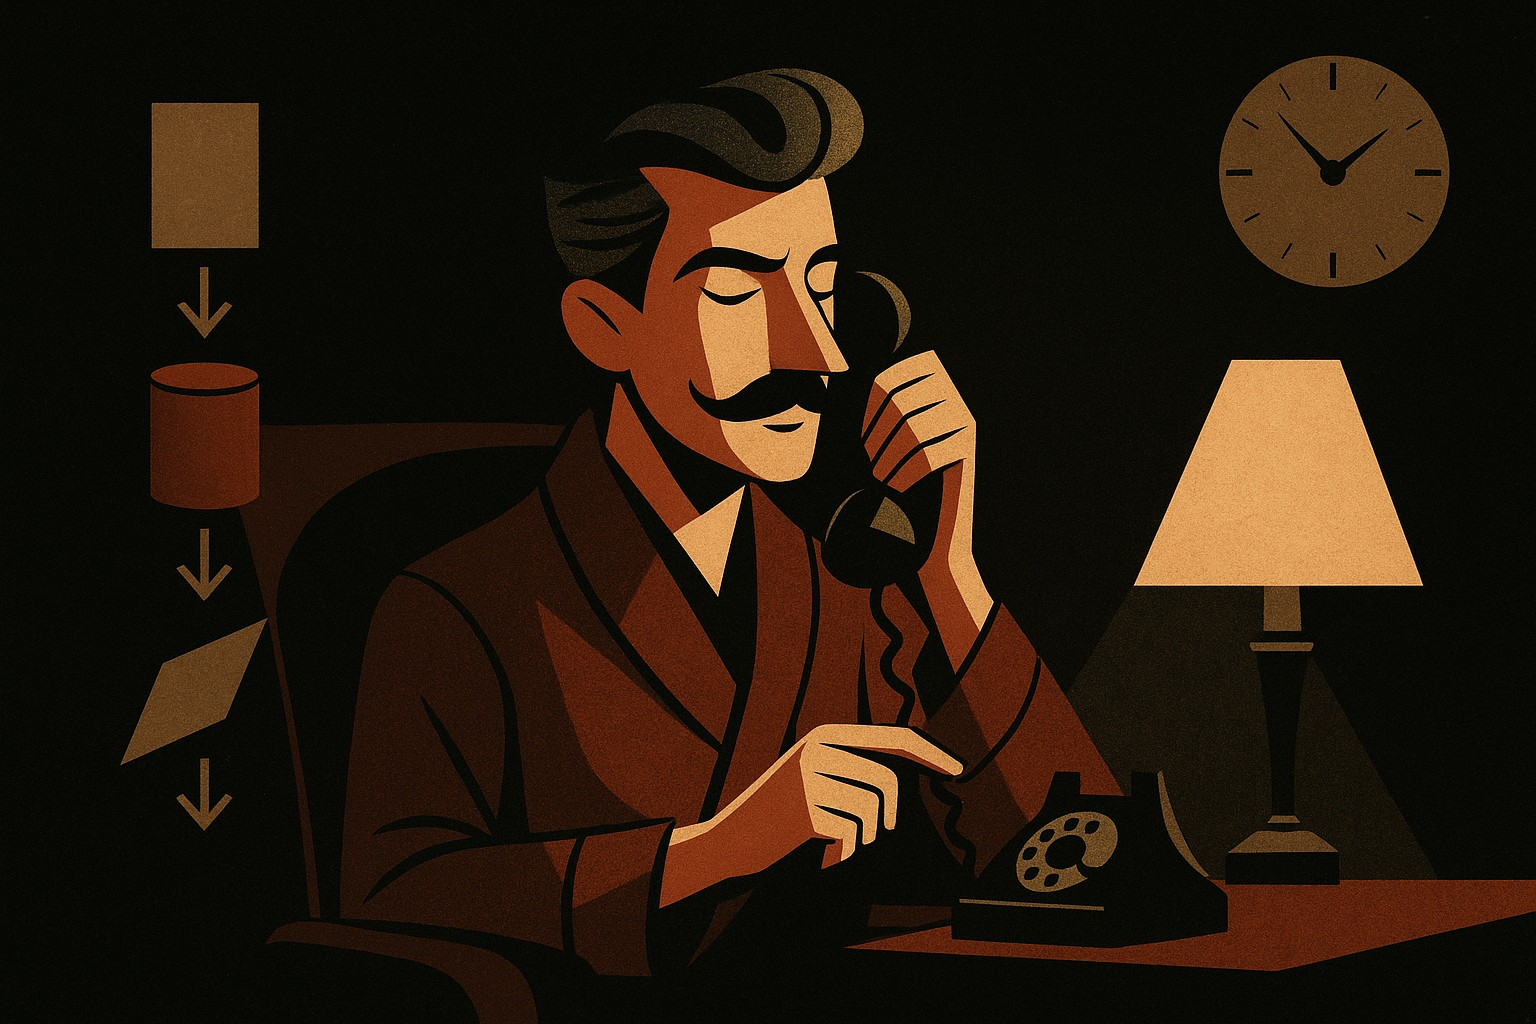
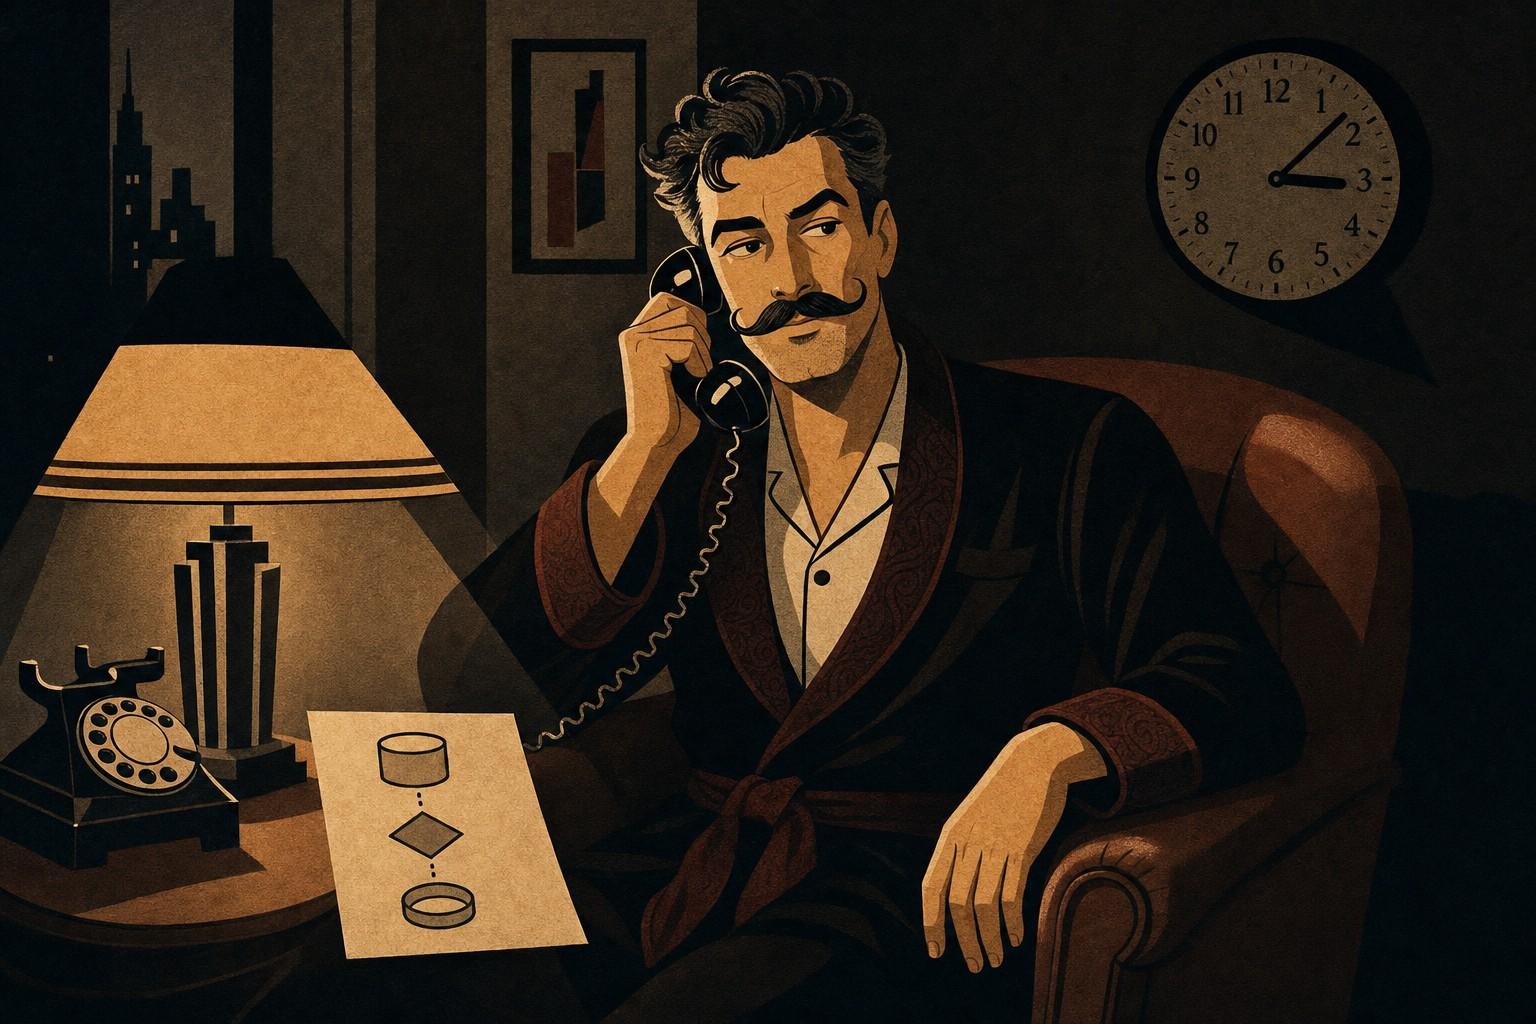
fix(cover): #40 ORA-00205 alle tre di notte: capire i file critici — rigenera cover image
Ri-pubblicazione cover-only via webo (issue #108).
Sostituisce la cover live senza toccare frontmatter/PUB_TABLE.
Slug: quali-sono-i-files-critici-di-un-db-oracle

diff --git a/docs/cover-image-prompts/quali-sono-i-files-critici-di-un-db-oracle.cover.md b/docs/cover-image-prompts/quali-sono-i-files-critici-di-un-db-oracle.cover.md
@@ -11,7 +11,9 @@ Crea un'illustrazione in formato **3:2 (1536×1024 px)**, in stile cartone retro
 
 Lo stile deve essere coerente con poster corporate americani anni '50, animazione UPA, grafica editoriale elegante e geometrica.
 
-**Resa visiva tassativa**: **illustrazione vettoriale 2D piatta**, mai 3D, mai effetto "plasticoso" o gloss/shiny, mai render fotorealistico, mai look pubblicitario contemporaneo. Texture di carta visibile per dare matericità "stampata". Ogni superficie deve apparire **piatta** e bidimensionale: niente riflessi, niente bevel, niente lucentezza moderna.
+**Resa visiva tassativa**: **illustrazione 2D disegnata a mano**, mai render 3D, mai effetto "plasticoso" o gloss/shiny, mai fotorealismo, mai look pubblicitario contemporaneo. Texture di carta visibile per dare matericità "stampata".
+
+**Profondità sì, lucido no.** Il divieto riguarda la finitura moderna (riflessi speculari, bevel, gradienti lucidi, plastica), NON il volume: l'illustrazione deve avere ombre proiettate nette e stilizzate, chiaroscuro reso a campiture o mezzitoni (screen-tone, tratteggio, grana), e una chiara distinzione tra primo piano, piano medio e sfondo. Il riferimento sono le illustrazioni editoriali stampate anni '50, che sono piatte nella *finitura* ma piene di profondità nella *composizione* — non le sagome di cartone.
 
 **Direzione artistica:**
 
@@ -21,7 +23,7 @@ Lo stile deve essere coerente con poster corporate americani anni '50, animazion
 - proporzioni dei personaggi leggermente esagerate
 - stile raffinato, intelligente, visivamente ordinato
 - atmosfera da jazz club vintage
-- illuminazione soffusa e discreta
+- illuminazione soffusa e discreta, con una direzione della luce riconoscibile e ombre proiettate coerenti
 - texture di carta ruvida ben visibile
 - mood elegante, colto, professionale
 
@@ -33,12 +35,12 @@ Lo stile deve essere coerente con poster corporate americani anni '50, animazion
 - marrone
 - bianco
 
-Usare colori piatti e uniformi, con pochissime sfumature.
+Usare campiture prevalentemente piatte, ammettendo variazioni tonali dentro la palette (toni più chiari e più scuri dello stesso colore) per dare volume e distinguere i piani. Vietati i gradienti lucidi e i colori saturi moderni, non la variazione tonale in sé.
 
-**Evitare:** effetti realistici, fotorealismo, rendering 3D, dettagli superflui, ombreggiature complesse, colori saturi moderni, look pubblicitario contemporaneo.
+**Evitare:** fotorealismo, rendering 3D, finiture lucide o plastiche, colori saturi moderni, look pubblicitario contemporaneo, affollamento disordinato della scena.
 
-La scena deve apparire grafica, essenziale, simbolica, con forte contrasto visivo tra gli elementi principali.
-Ogni oggetto deve essere semplificato in forme pulite e leggibili.
+La scena deve apparire grafica e leggibile, con forte contrasto visivo tra gli elementi principali.
+Ogni oggetto va stilizzato in forme pulite ma **deve restare riconoscibile per quello che è**: una pizza è una pizza con i suoi ingredienti, non un cerchio dentro un cerchio. Le icone puramente astratte si usano per i concetti astratti (flussi, relazioni, stati), non per gli oggetti fisici della scena.
 L'immagine deve sembrare una singola illustrazione coerente, non un collage.
 
 **Elementi grafici preferiti:**
@@ -110,16 +112,16 @@ Quando la narrativa dell'articolo coinvolge **due o più personaggi**, la scena 
 - privilegiare chiarezza grafica e composizione rispetto al dettaglio
 - evitare qualsiasi estetica moderna da stock illustration
 - evitare look realistico o digitale contemporaneo
-- evitare eccesso di oggetti, testo o micro-dettagli
-- **mai 3D, mai effetto plasticoso, mai gloss/shiny, mai lucentezza moderna**: ogni superficie deve essere piatta come una serigrafia anni '50
+- popolare l'ambiente con oggetti di contesto coerenti (arredi, strumenti, dettagli d'epoca) distribuiti sui tre piani: una scena ricca ma ordinata batte una scena spoglia
+- **mai 3D, mai effetto plasticoso, mai gloss/shiny, mai lucentezza moderna** nella *finitura* delle superfici — restano invece necessarie ombre stilizzate, mezzitoni e profondità compositiva
 
 **Testo nell'immagine:**
 
-- Limitare al minimo qualsiasi testo nell'illustrazione
+- Il testo è ammesso quando aiuta a leggere la scena (etichette, insegne, intestazioni di grafici, cartelli): non va eliminato per principio, va tenuto breve
 - **SE compare testo** (etichette, cartelli, indicazioni, copertine di libri, schermi con scritte, ecc.) deve essere **SEMPRE in inglese**
 - Il sito è multilingue (IT/EN/ES/RO) e le immagini sono condivise tra tutte le lingue: il testo in inglese le rende neutre e non richiede traduzioni
-- Preferire simboli geometrici, icone stilizzate, frecce e pittogrammi astratti al posto di parole quando possibile
+- Preferire simboli geometrici, icone stilizzate e frecce alle parole quando il concetto è astratto; gli oggetti concreti vanno però disegnati come oggetti, non sostituiti da pittogrammi
 
 **SCENA DA RAPPRESENTARE:**
 
-Stanza in penombra profonda, ore piccole della notte. Ivan — baffi a manubrio, vestaglia elegante anni '50 — è seduto in poltrona di pelle scura, cornetta di un telefono nero d'epoca stretta in mano, espressione concentrata e sveglia: sta dettando istruzioni a voce bassa con la precisione di chi ha già inquadrato il problema. Sul tavolino accanto, una lampada Art Deco è l'unica fonte di luce, con un cono luminoso stretto che taglia il buio. Sullo sfondo, silhouette stilizzata di un orologio a parete che segna le 3. A sinistra in secondo piano, tre forme geometriche verticali disposte in sequenza — un rettangolo sottile (parameter file), un cilindro compatto (control file), un parallelogramma obliquo (redo log) — collegate da frecce discendenti che evocano la catena NOMOUNT → MOUNT → OPEN. Una delle tre forme è evidenziata in rosso, le altre in beige scuro: il punto di rottura nella sequenza. Mood notturno, tensione composta, atmosfera da jazz club in chiusura.
+Telefonata notturna ricevuta: Ivan — baffi a manubrio brizzolati, vestaglia di seta scura su pigiama elegante anni '50 — seduto in poltrona di pelle in una stanza in penombra profonda, cornetta di un telefono nero d'epoca premuta all'orecchio, espressione concentrata e già lucida nonostante l'ora. Una sola lampada da tavolo Art Deco illumina la scena dal basso-sinistra, proiettando ombre lunghe e nette. Sul piano laterale della poltrona, un foglio con tre simboli geometrici disposti in sequenza verticale: un cilindro stilizzato (parameter file), un rombo (control file), un nastro circolare (redo log) — la triade critica del database. Sullo sfondo, silhouette di un orologio a parete che segna le 3:08. Mood notturno, tensione composta, nessun elemento moderno.
